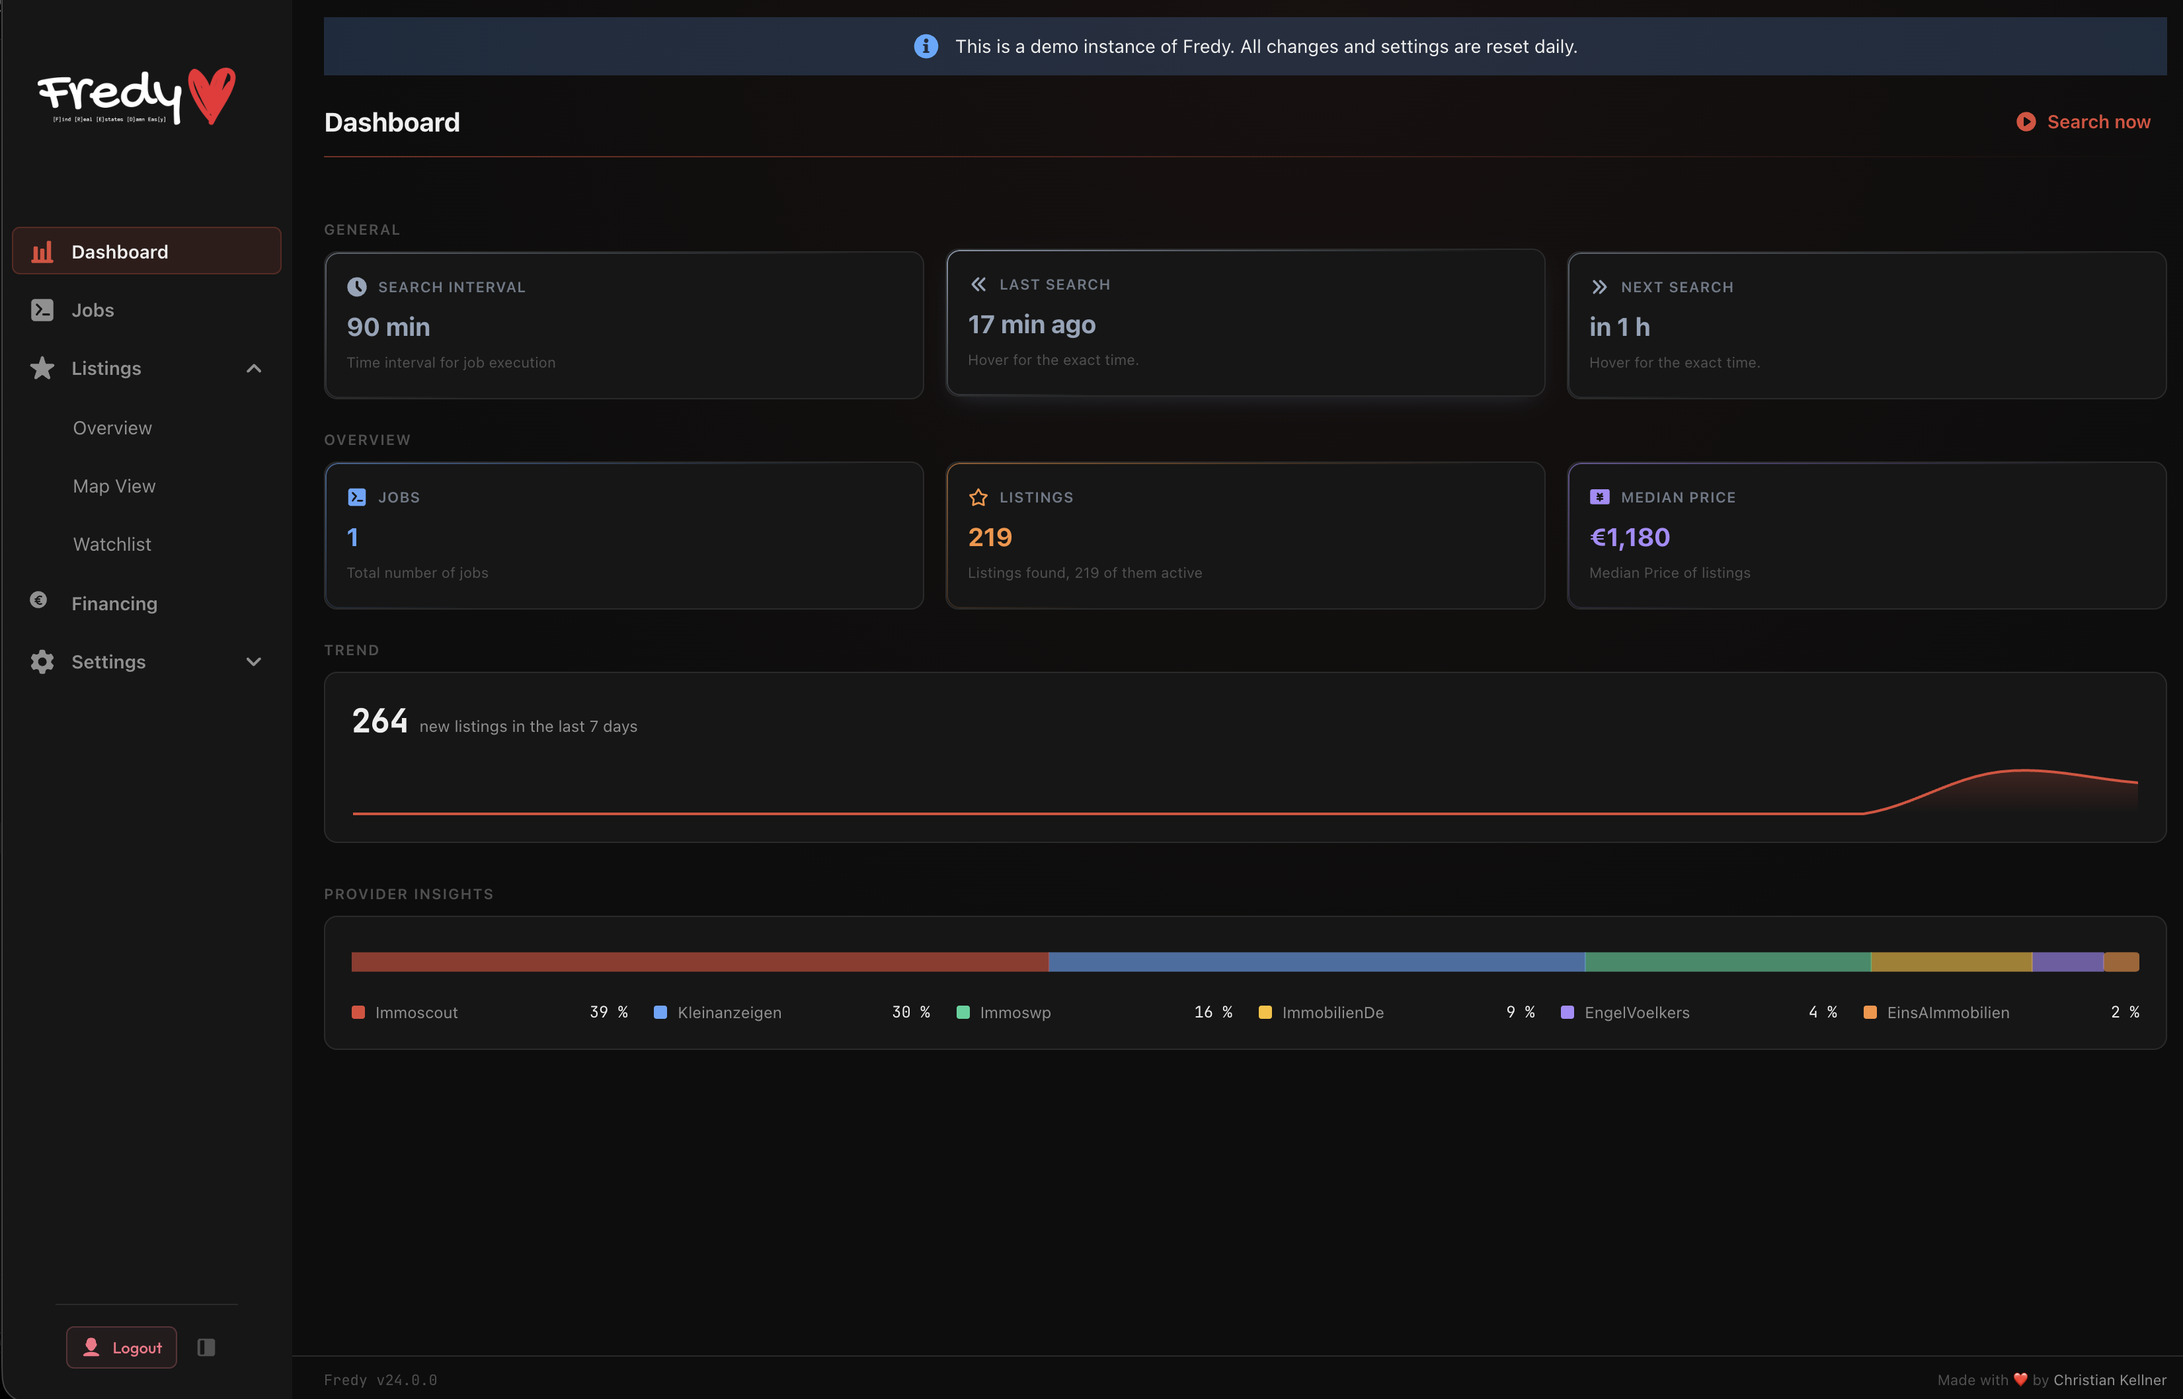
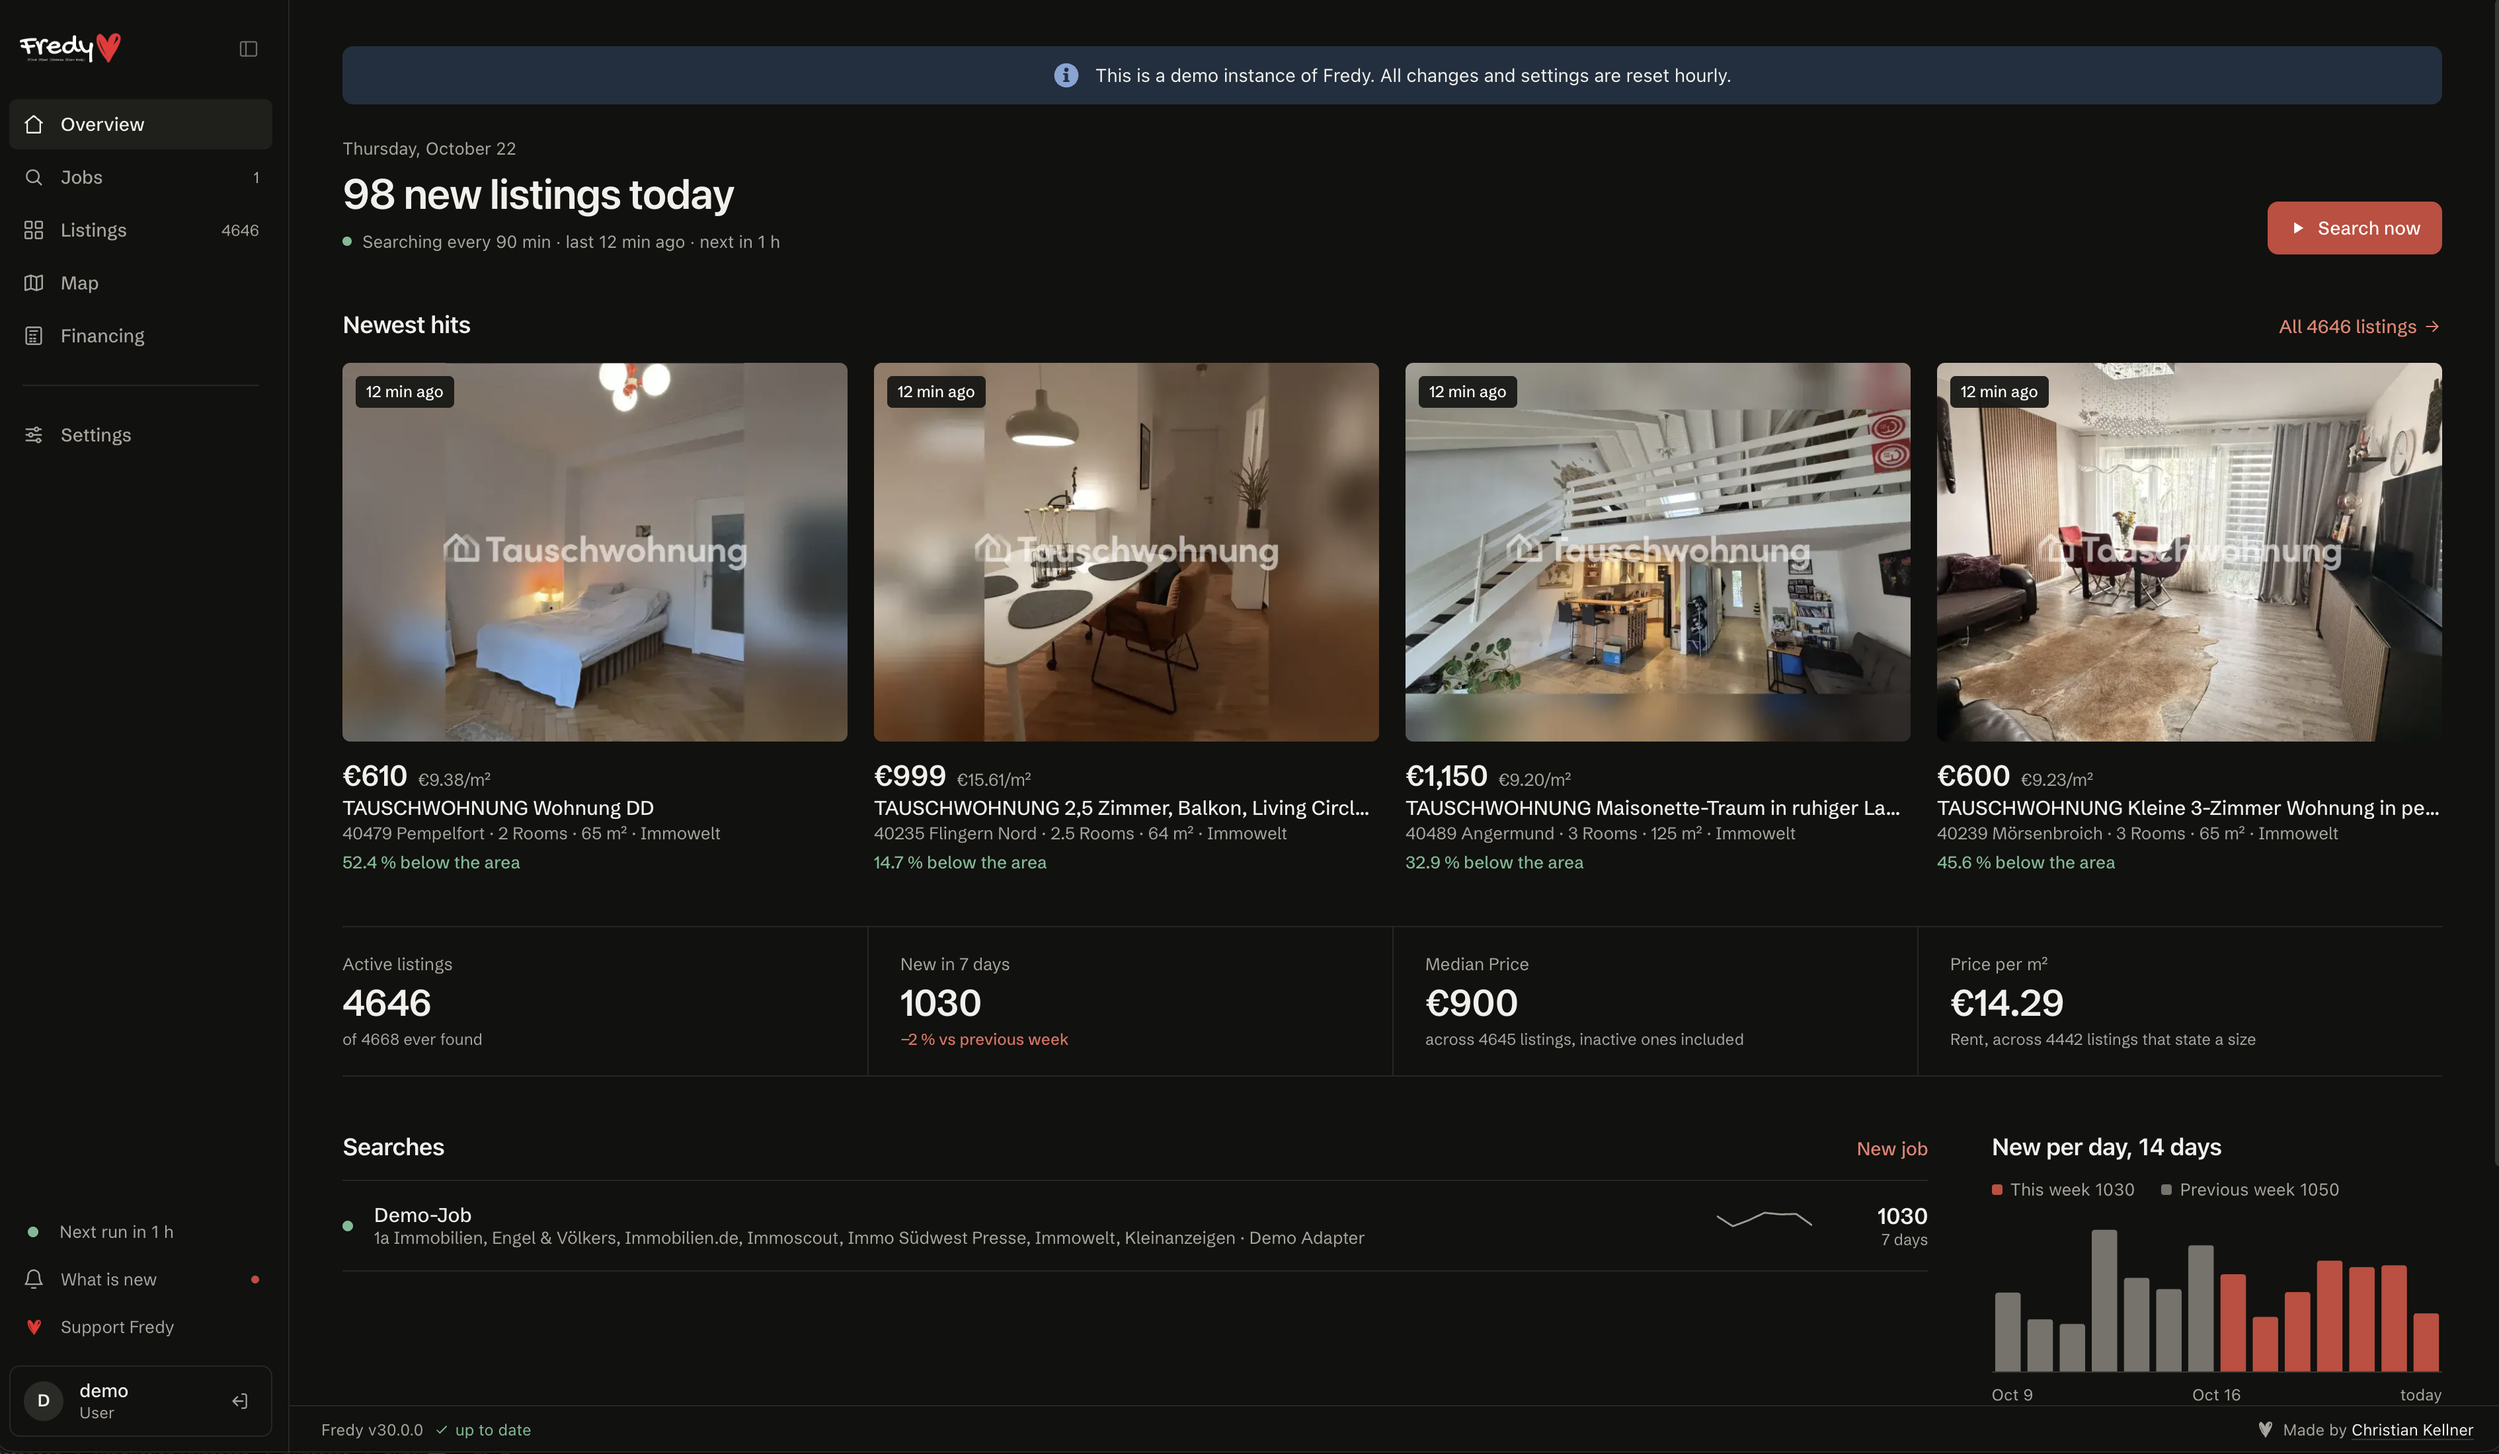
adding new screenshots

diff --git a/README.md b/README.md
@@ -43,9 +43,9 @@ On top of the listing itself, Fredy answers the three questions a portal will no
   <a href="https://trendshift.io/repositories/43464?utm_source=trendshift-badge&amp;utm_medium=badge&amp;utm_campaign=badge-trendshift-43464" target="_blank" rel="noopener noreferrer"><img src="https://trendshift.io/api/badge/trendshift/repositories/43464/daily?language=JavaScript" alt="orangecoding%2Ffredy | Trendshift" width="250" height="55"/></a>
 </p>
 
-| Fredy Maps View                                  | Dashboard                                               | Found Listings                                                              |
-|--------------------------------------------------|-----------------------------------------------------------------------|-----------------------------------------------------------------------------|
-| ![Screenshot showing Fredy](doc/screenshot1.png) | ![Screenshot showing job configuration in Fredy](doc/screenshot3.png) | ![Screenshot showing found listings in Fredy](doc/screenshot2.png) |
+| Fredy Maps View                                  | Dashboard                                               | Listings Overview                                                             | Detail View                                                             |
+|--------------------------------------------------|-----------------------------------------------------------------------|-----------------------------------------------------------------------------|-----------------------------------------------------------------------------|
+| ![Screenshot showing Fredy](doc/screenshot1.png) | ![Screenshot showing job configuration in Fredy](doc/screenshot3.png) | ![Screenshot showing found listings in Fredy](doc/screenshot2.png) | ![Screenshot showing listing details in Fredy](doc/screenshot4.png) |
 
 ------------------------------------------------------------------------
 
